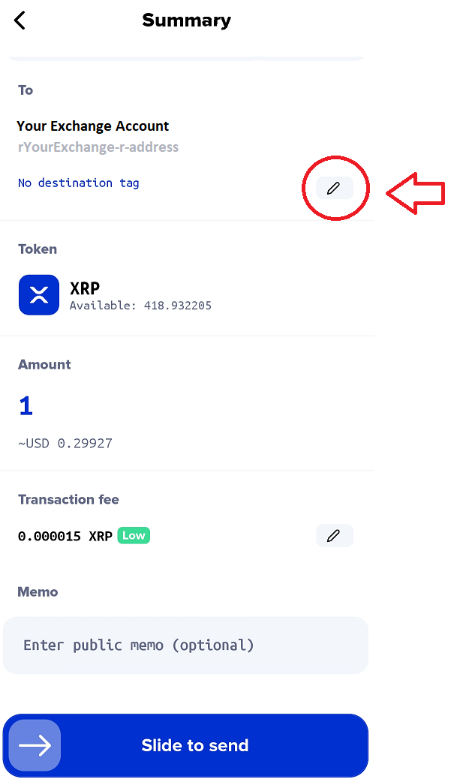
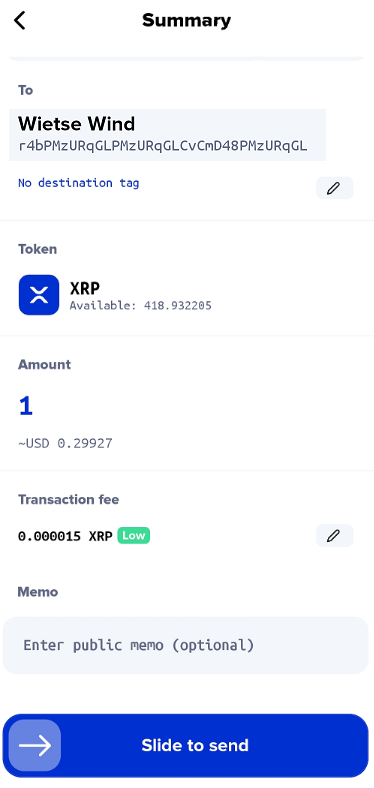
GitBook: [#91] No subject

diff --git a/hot-topics/how-to-send-funds-using-xumm.md b/hot-topics/how-to-send-funds-using-xumm.md
@@ -1,5 +1,6 @@
 ---
 description: Want to see XRP to your XRP Ledger account managed by Xumm?
+coverY: 0
 ---
 
 # How to Send Funds Using Xumm
@@ -83,21 +84,21 @@ Finally we reach the **Summary** screen. Here you can review your transaction to
 
 <figure><img src="../.gitbook/assets/Summary.png" alt=""><figcaption></figcaption></figure>
 
-This is also where you would enter you your **destination tag** if you are sending to a custodial account.
+If you are sending to a non-custodial account, you can simply **Slide to send** and your transaction will be sent to the XRP Ledger to process.
 
+However, if you are sending to a **custodial** account, (ie. an exchange account) this where you would enter your **destination tag**.
 
+<figure><img src="../.gitbook/assets/Summary + DT.png" alt=""><figcaption></figcaption></figure>
 
-#### If you are sending to a non-custodial account, you can **Slide to send** your transaction.
-
-#### If you are sending to a custodial account, make sure you enter your destination tag before you **Slide to send**.
-
-####
-
-![https://support.xumm.app/hc/article\_attachments/7821650753042/mceclip1.png](https://support.xumm.app/hc/article\_attachments/7821650753042/mceclip1.png)
+{% hint style="success" %}
+Remember, non-custodial accounts, like the ones managed with Xumm **do not** require destination tags. Only **custodial** accounts require them.
+{% endhint %}
 
 #### **A little bit more about destination tags**
 
-You may have noticed that most crypto exchanges have **one** receiving r-address for **all** of their XRP customers? Have you ever wondered how thousands of customers can use just one XRP account? How is this possible? The answer is called destination tags, which are a set numeric numbers that you enter into an XRPL transaction to identify a specific account at an exchange.
+You may have noticed that most crypto exchanges have **one** receiving r-address for **all** of their XRP customers? Have you ever wondered how thousands of customers can use just one XRP account?&#x20;
+
+Exchanges hold your funds for you in **their** XRP Ledger account(s) which they control. Then they issue you a customer account on their internal database and issue you a **destination tag**, which are a set numbers that you enter into an XRPL transaction to identify a specific customer account at an exchange. (So with a custodial account,&#x20;
 
 You can lean more about destination tags in this video:
 
